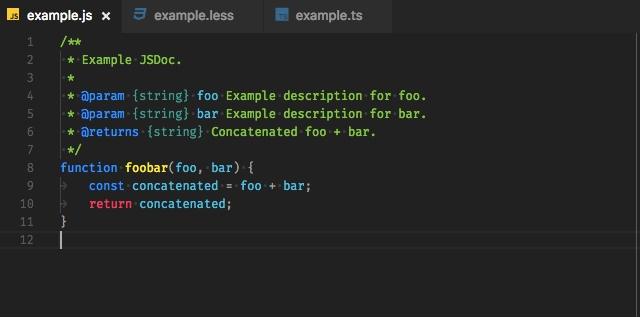
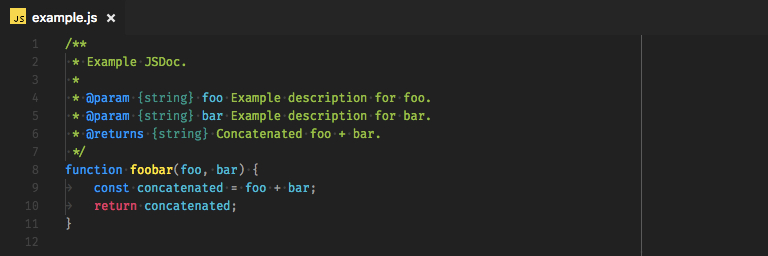
v1.0.17 - Check CHANGELOG.md

diff --git a/README.md b/README.md
@@ -4,11 +4,11 @@
 
 The default Dark+ Theme, with material palette.
 
+**More than 100k downloads!** Thanks a lot for the love!
+
 ## Reason
 
 I really love the default Dark+ Theme that comes with Visual Studio Code, but also love the Material Design Palette. The thing is I didn't found a good material theme (the coloring is always ugly for my taste). So I made this theme that implements the Material Design Palette in the Dark+ theme that comes with Visual Studio Code.
-
-More than 50k downloads! Thanks a lot for the love!
 
 ## Screenshots
 

diff --git a/CHANGELOG.md b/CHANGELOG.md
@@ -1,5 +1,11 @@
 # Changelog
 
+## 1.0.17
+
+- Updated screenshots.
+- Updated dependencies.
+- Updated README.md.
+
 ## 1.0.16
 
 - Fixed PayPal link.
